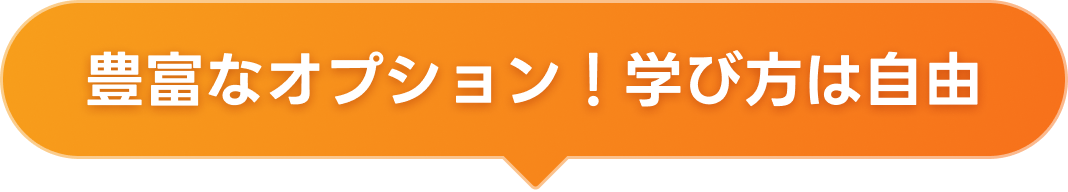
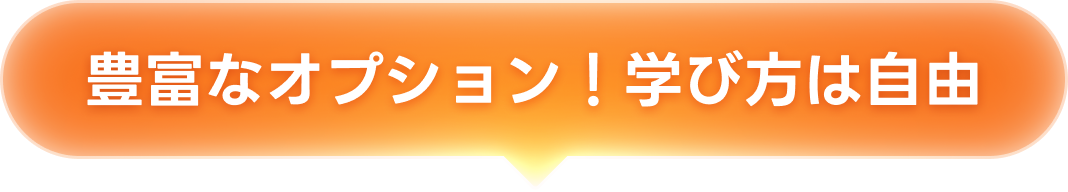
調整

diff --git a/src/css/top.css b/src/css/top.css
@@ -1,0 +1,1 @@
+.section{padding:104px 0}.section-introduction{position:relative;padding-top:24px;overflow:hidden}.site-introduction{position:relative;z-index:0}.site-introduction__bg{position:absolute;top:-80px;left:-80px;width:720px;height:720px;z-index:-1;-webkit-mask:linear-gradient(to top, black 80%, transparent 100%);mask:linear-gradient(to top, black 80%, transparent 100%)}.site-introduction__bg::before{content:"";display:block;width:100%;height:100%;background:url("/images/bg-pattern-grid.svg") -20px -20px/160px repeat;-webkit-mask:radial-gradient(at top left, #fff, transparent 80%);mask:radial-gradient(at top left, #fff, transparent 80%)}.site-introduction__bottom-image{position:relative;z-index:-1}.site-introduction-outline{display:flex;flex-wrap:wrap;align-items:flex-end;max-width:var(--content-width);margin:0 auto}.site-introduction-outline__text-content{width:60%}.site-introduction-outline__copy{font-size:64px;height:2.5em;margin:0 0 48px;background:var(--color-white-secondary);filter:url(#chromaticAberration);-webkit-clip-path:var(--clip-rect-edge);clip-path:var(--clip-rect-edge)}.site-introduction-outline__copy img{width:auto;height:100% !important}.site-introduction-outline__body-text{line-height:2}.site-introduction-outline__image{width:50%;margin:0 -10% 0 0}.site-introduction-copy{position:relative;line-height:1.125;font-size:64px;margin:0 0 48px;filter:url(#chromaticAberration);-webkit-clip-path:polygon(-1px -1px, calc(100% + 1px) -1px, calc(100% + 1px) calc(100% + 1px), -1px calc(100% + 1px));clip-path:polygon(-1px -1px, calc(100% + 1px) -1px, calc(100% + 1px) calc(100% + 1px), -1px calc(100% + 1px))}.site-introduction-copy::before{content:"";position:absolute;background:var(--color-white-secondary);inset:-4px;z-index:-1}.site-introduction-copy__emphasys{position:relative;z-index:0;display:block;width:calc(var(--width) + 40px);height:92px;margin:0 0 24px;line-height:1;border-radius:12px;color:var(--color-white-primary);overflow:hidden;transition:width .5s}.site-introduction-copy__emphasys::before{content:"";position:absolute;inset:0;z-index:2;background:url("/images/noise.png") center/100px repeat;animation:overlay-noise .5s 0s both normal infinite steps(5);mix-blend-mode:overlay;opacity:.75}.site-introduction-copy__emphasys::after{content:"";position:absolute;z-index:4;inset:0;box-shadow:var(--inner-grow-primary-medium)}.site-introduction-copy__emphasys-item{position:absolute;top:55%;left:50%;transform:translate(-50%, -50%);display:block;width:-moz-max-content;width:max-content;opacity:0;transition:opacity .25s}.site-introduction-copy__emphasys-item.is-active{opacity:1}.site-introduction-copy__emphasys-bg{position:absolute;inset:0;background:radial-gradient(at center bottom, #f7a61b, #FF5A36);background:var(--color);opacity:0;transition:opacity 1s;z-index:-2}.site-introduction-copy__emphasys-bg.is-active{opacity:1;transition:opacity 1s;z-index:-1}.aim-job{display:flex;align-items:center;gap:24px;max-width:var(--content-width);margin:0 auto;padding:20px;background:var(--color-white-primary);border-radius:12px}.aim-job__title{padding:16px;margin:0 0 0 -32px;color:var(--color-white-primary);background:var(--color-orange-primary);border:1px solid rgba(255,255,255,.5);box-shadow:var(--shadow-primary-medium-strong);text-shadow:var(--text-shadow-primary);border-radius:8px}.aim-job__list{display:flex;flex-wrap:wrap;gap:8px}.aim-job__list-item{padding:12px 16px 10px;background:var(--color-white-tertiary);border-radius:8px}.studio-image{position:relative;width:100%;height:40vw;max-height:580px;overflow:hidden}.studio-image::before{content:"";position:absolute;inset:0;background:url("/images/image-overlay-primary.png") center/6px repeat;z-index:2}.studio-image__image{position:absolute;inset:0;top:-160px;bottom:-160px}.studio-image img{width:100%;height:100% !important;-o-object-fit:cover;object-fit:cover}.inview-fadein{opacity:0;transform:translate(0, 16px);transition:opacity .75s,transform .75s}.inview-fadein.is-inview{opacity:1;transform:none}.course-others{width:var(--content-width);margin:0 auto}.course-others__title{position:relative;font-size:32px;padding:184px 0 0;margin:0 0 16px}.course-others__title-text{position:relative;width:-moz-fit-content;width:fit-content}.course-others__title-text::after{content:"";position:absolute;top:50%;right:-12px;transform:translate(100%, -50%);width:50px;height:14px;background:url("/images/title-decoration-dot.svg") center/contain no-repeat}.course-others__title-bubble{position:absolute;width:162px;top:0;left:-40px;z-index:0;opacity:0}.course-others__title-bubble::before{content:"";position:absolute;top:0;left:0;z-index:-1;width:162px;height:162px;border-radius:1000px;box-shadow:var(--shadow-primary-medium)}.course-others__title-bubble.is-inview{animation:course-others-title-bubble-show .5s 0s normal both 1 ease-in-out}@keyframes course-others-title-bubble-show{0%{opacity:0;transform:scale(0.75);transform-origin:50% 100%}50%{opacity:1;transform:scale(1.05)}100%{opacity:1;transform:scale(1);transform-origin:50% 100%}}.course-others__list{display:grid;grid-template-columns:repeat(3, 1fr);gap:32px}.course-others-list-item__image{margin:0 0 32px;border-radius:12px;overflow:hidden;box-shadow:var(--shadow-primary-medium)}.course-others-list-item__title{margin:0 0 16px;font-size:28px}.course-others-list-item__description{line-height:2;font-size:14px}.section-feature{overflow:hidden}.course-others-list-item__title{position:relative;padding:0 0 0 40px;margin:0 0 24px;font-size:28px}.course-others-list-item__title::before{content:"";position:absolute;top:4px;left:0;width:32px;height:32px;background:var(--dominant-color);border:1px solid var(255, 255, 255, 0.5);border-radius:12px;box-shadow:var(--shadow-primary-small)}.course-others-list-item:nth-of-type(1){--dominant-color: var(--color-pink-primary)}.course-others-list-item:nth-of-type(2){--dominant-color: var(--color-lightgreen-primary)}.course-others-list-item:nth-of-type(3){--dominant-color: var(--color-purple-primary)}/*# sourceMappingURL=top.css.map */

diff --git a/src/css/top.scss b/src/css/top.scss
@@ -3,7 +3,7 @@
 }
 .section-introduction {
     position: relative;
-    padding-top: 40px;
+    padding-top: 24px;
     overflow: hidden;
 }
 .site-introduction {
@@ -13,8 +13,8 @@
         position: absolute;
         top: -80px;
         left: -80px;
-        width: 960px;
-        height: 960px;
+        width: 720px;
+        height: 720px;
         z-index: -1;
         -webkit-mask: linear-gradient(to top,black 80%, transparent 100%);
         mask: linear-gradient(to top,black 80%, transparent 100%);
@@ -30,7 +30,7 @@
     }
     &__bottom-image {
         position: relative;
-        z-index: 2;
+        z-index: -1;
     }
 }
 .site-introduction-outline {
@@ -60,6 +60,78 @@
     &__image {
         width: 50%;
         margin: 0 -10% 0 0;
+    }
+}
+.site-introduction-copy {
+    position: relative;
+    line-height: 1.125;
+    font-size: 64px;
+    margin: 0 0 48px;
+    filter:url(#chromaticAberration);
+    clip-path: polygon(-1px -1px, calc(100% + 1px) -1px,calc(100% + 1px) calc(100% + 1px),-1px calc(100% + 1px));
+    &::before {
+        content: "";
+        position: absolute;
+        background: var(--color-white-secondary);
+        inset: -4px;
+        z-index: -1;
+    }
+    &__emphasys {
+        position: relative;
+        z-index: 0;
+        display: block;
+        width: calc(var(--width) + 40px);
+        height: 92px;
+        margin: 0 0 24px;
+        line-height: 1;
+        border-radius: 12px;
+        color: var(--color-white-primary);
+        overflow: hidden;
+        transition: width 0.5s;
+        &::before {
+            content: "";
+            position: absolute;
+            inset: 0;
+            z-index: 2;
+            background: url("/images/noise.png") center/100px repeat;
+            animation: overlay-noise 0.5s 0s both normal infinite steps(5);
+            mix-blend-mode: overlay;
+            opacity: 0.75;
+        }
+        &::after {
+            content: "";
+            position: absolute;
+            z-index: 4;
+            inset: 0;
+            box-shadow: var(--inner-grow-primary-medium);
+        }
+    }
+    &__emphasys-item {
+        position: absolute;
+        top: 55%;
+        left: 50%;
+        transform: translate(-50%,-50%);
+        display: block;
+        width: max-content;
+        opacity: 0;
+        transition: opacity 0.25s;
+        &.is-active {
+            opacity: 1;
+        }
+    }
+    &__emphasys-bg {
+        position: absolute;
+        inset: 0;
+        background: radial-gradient(at center bottom,#f7a61b,#FF5A36);
+        background: var(--color);
+        opacity: 0;
+        transition: opacity 1s;
+        z-index: -2;
+        &.is-active {
+            opacity: 1;
+            transition: opacity 1s;
+            z-index: -1;
+        }
     }
 }
 .aim-job {
@@ -213,4 +285,34 @@
 
 .section-feature {
     overflow: hidden;
+}
+
+.course-others-list-item {
+    &__title {
+        position: relative;
+        padding: 0 0 0 40px;
+        margin: 0 0 24px;
+        font-size: 28px;
+        &::before {
+            content: "";
+            position: absolute;
+            top: 4px;
+            left: 0;
+            width: 32px;
+            height: 32px;
+            background: var(--dominant-color);
+            border: 1px solid var(255,255,255,0.5);
+            border-radius: 12px;
+            box-shadow: var(--shadow-primary-small);
+        }
+    }
+    &:nth-of-type(1) {
+        --dominant-color: var(--color-pink-primary);
+    }
+    &:nth-of-type(2) {
+        --dominant-color: var(--color-lightgreen-primary);
+    }
+    &:nth-of-type(3) {
+        --dominant-color: var(--color-purple-primary);
+    }
 }

diff --git a/src/css/global.css b/src/css/global.css
@@ -20,7 +20,7 @@ button {cursor:pointer;}
 img {display:block; width:100%; height:auto;}
 article, aside, details, figcaption, figure, footer, header, hgroup, menu, nav, section {display:block;}
 html { font-size:62.5%;}
-body {line-height:1; line-height:1.5; --letter-spacing:.05em; font-size:16px; font-family:var(--font-family-primary); font-weight:500; color:var(--color-black-primary); background: var(--color-white-secondary); overflow-y:auto; scrollbar-gutter:stable;}
+body {line-height:1; line-height:1.5; --letter-spacing:.05em; font-size:16px; font-family:var(--font-family-primary); font-weight:500; color:var(--color-black-primary); background: var(--color-white-secondary); overflow-y:auto; overflow-x: hidden; scrollbar-gutter:stable;}
 * {letter-spacing:var(--letter-spacing);}
 @media screen and (max-width:1080px) {
 	body {font-size:15px;}
@@ -46,8 +46,8 @@ table {border-collapse:collapse; border-spacing:0;}
     --color-orange-secondary: #F79F1B;
     --color-orange-tertiary: #F7701B;
     --color-pink-primary: #F8B7B7;
-    --color-lightgreen-primary: #F8B7B7;
-    --color-purple-primary: #F8B7B7;
+    --color-lightgreen-primary: #B2E4BD;
+    --color-purple-primary: #D2BEEC;
     --shadow-rgb-orange: 146,17,0;
     --shadow-primary-large: 0 20px 40px -10px rgba(var(--shadow-rgb-orange),0.08);
     --shadow-primary-medium: 0 16px 32px -8px rgba(var(--shadow-rgb-orange),0.2);
